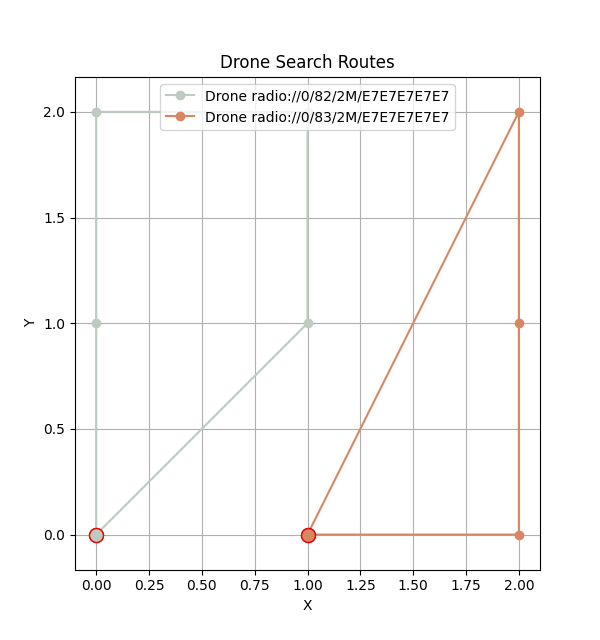
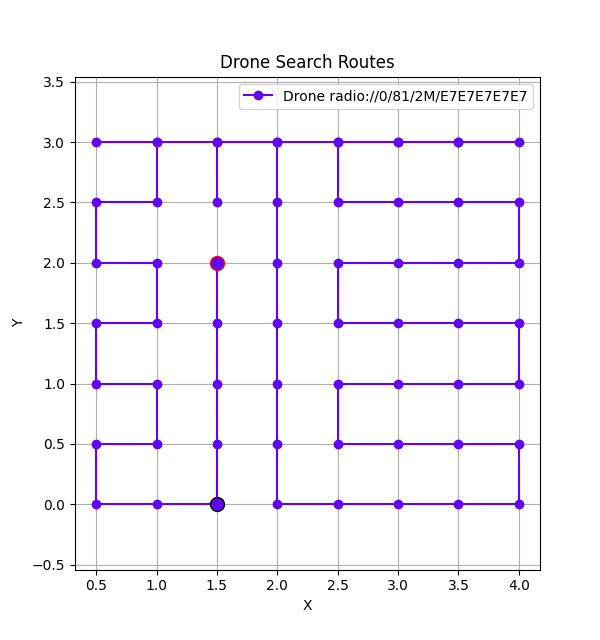
Finalise drone routing

diff --git a/src/services/swarm.py b/src/services/swarm.py
@@ -3,7 +3,7 @@ import cflib.crtp
 from cflib.crazyflie.swarm import CachedCfFactory
 from cflib.crazyflie.swarm import Swarm
 
-import queue, threading
+import queue, threading, time
 
 from services.navigation import NavigationService
 
@@ -26,9 +26,11 @@ class SwarmService():
         return self.state != SEARCH or self.state != RECALL
     
     def update_swarm(self, new_state: str):
+        print(new_state)
         if new_state == SCAN:
             self.swarm_thread = threading.Thread(target=self._run_swarm)
-        elif new_state == SEARCH or new_state == RECALL or new_state == EMERGENCY:
+            self.swarm_thread.start()
+        elif new_state in SWARM_COMMANDS:
             self.command_queue.put(new_state)
 
     def _run_swarm(self):
@@ -38,31 +40,39 @@ class SwarmService():
         self.uris = list(dict.fromkeys(self.uris))
 
         if self.uris:
-            self.state = CONNECTED
-            self._run_search()
-        else:
-            self.state = UNAVAILABLE
+            self._run_swarm_process()
+
+        self.state = DISCONNECT
     
-    def _run_search(self):
+    def _run_swarm_process(self):
         self.state = SCAN
 
         factory = CachedCfFactory(rw_cache='./cache')
         with Swarm(self.uris, factory=factory) as swarm:
+            self.state = CONNECTED
+            print("connected")
             while True:
                 try:
                     command = self.command_queue.get(timeout=0.1)
-                    self.state = command
                     if command == BUILD:
                         positions = swarm.get_estimated_positions()
+                        print("estimators reset")
                         self.navigation.set_drone_positions(positions)
                         self.navigation.build_routes()
                     elif command == SEARCH:
+                        swarm.parallel_safe(DroneCommand.light_check)
                         swarm.parallel_safe(DroneCommand.take_off)
+                        self.state = SEARCH
                     elif command == RECALL:
                         swarm.parallel_safe(DroneCommand.land)
+                        self.state = CONNECTED
                     elif command == EMERGENCY:
                         swarm.parallel_safe(DroneCommand.emergency)
                         break
+                    elif command == DISCONNECT:
+                        if self.state != SEARCH:
+                            self.state = DISCONNECT
+                            break
                 except queue.Empty:
                     pass
 
@@ -72,5 +82,7 @@ class SwarmService():
                         swarm.parallel_safe(DroneCommand.run_step, args_dict)
                     except Exception as e:
                         print(e)
+
+                time.sleep(0.001)
         
         self.state = DISCONNECT

diff --git a/src/assets/components.py b/src/assets/components.py
@@ -22,33 +22,28 @@ BUTTON_COLOR = COLORS["grey"]
 ACTIVE_TEXT_COLOR = COLORS["black"]
 INACTIVE_TEXT_COLOR = COLORS["darkgrey"]
 
-scan_button = CustomButton(10, 10, 150, 50, SCAN)
-disconnect_button = CustomButton(170, 10, 150, 50, DISCONNECT)
-search_button = CustomButton(330, 10, 150, 50, SEARCH)
-recall_button = CustomButton(490, 10, 150, 50, RECALL)
-emergency_button = CustomButton(650, 10, 150, 50, EMERGENCY)
+scan_button = CustomButton(1100, 40, 150, 50, SCAN)
+disconnect_button = CustomButton(1100, 100, 150, 50, DISCONNECT)
+build_button = CustomButton(1100, 160, 150, 50, BUILD)
+search_button = CustomButton(1100, 220, 150, 50, SEARCH)
+recall_button = CustomButton(1100, 280, 150, 50, RECALL)
+emergency_button = CustomButton(1100, 340, 150, 50, EMERGENCY)
 
 
 buttons = [
     scan_button,
+    disconnect_button,
+    build_button,
     search_button,
     recall_button,
-    disconnect_button,
     emergency_button
 ]
 
 button_state_mapping: dict[str,list[str]] = {
     DISCONNECT: [SCAN],
     SCAN: [],
-    UNAVAILABLE: [SCAN],
-    CONNECTED: [DISCONNECT, SEARCH],
+    CONNECTED: [DISCONNECT, SEARCH, BUILD],
     SEARCH: [RECALL, EMERGENCY],
     RECALL: [],
     EMERGENCY: [],
 }
-
-class DroneMap():
-    def __init__(self, width, height, colls, rows):
-        self
-
-    

diff --git a/src/main.py b/src/main.py
@@ -30,23 +30,23 @@ buttons: list[CustomButton] = buttons
 running = True
 
 class Render():
-    @classmethod
-    def _button(_, button: CustomButton):
+    @staticmethod
+    def _button(button: CustomButton):
         pygame.draw.rect(screen, BUTTON_COLOR, button)
         text_color = ACTIVE_TEXT_COLOR if button.active else INACTIVE_TEXT_COLOR
         text_surface = font.render(button.text, True, text_color)
         text_rect = text_surface.get_rect(center=button.center)
         screen.blit(text_surface, text_rect)
 
-    @classmethod
-    def _buttons(_):
+    @staticmethod
+    def _buttons():
         for i in range(len(buttons)):
             buttons[i].active = buttons[i].text in button_state_mapping[swarm.state]
             Render._button(buttons[i])
 
-    @classmethod
-    def _drones(_):
-        if swarm.navigation:
+    @staticmethod
+    def _drones():
+        if swarm.navigation and not swarm.state in MAP_HIDDEN_STATES:
             Plot._drone_routes(IMAGE_URI, (600, 640), swarm.navigation)
             screen.blit(pygame.image.load(IMAGE_URI).convert(), (40, 40))
         

diff --git a/src/utils/drone.py b/src/utils/drone.py
@@ -39,11 +39,16 @@ class DroneCommand:
         commander.stop()
 
     @staticmethod
-    def run_step(scf: SyncCrazyflie, move: tuple[float, float, float, float]):
-        x_p1, y_p1, delta_p1_p0, max_swarm_delta = move
-        duration = delta_p1_p0 / V_DRONE
+    def emergency(scf: SyncCrazyflie):
+        commander = scf.cf.high_level_commander
+        commander.stop()
+
+    @staticmethod
+    def run_step(scf: SyncCrazyflie, move: tuple[tuple[float, float], float, float]):
+        (x_pn, y_pn), delta_p, max_swarm_delta = move
+        duration = delta_p / V_DRONE
         wait_time = max_swarm_delta / V_DRONE
 
         commander = scf.cf.high_level_commander
-        commander.go_to(x_p1,y_p1,FLIGHT_HEIGHT,0,duration)
+        commander.go_to(x_pn,y_pn,FLIGHT_HEIGHT,0,duration)
         time.sleep(wait_time)

diff --git a/src/services/navigation.py b/src/services/navigation.py
@@ -2,6 +2,7 @@ import math
 import yaml
 import copy
 import random
+import copy
 
 import numpy as np
 from scipy.optimize import linear_sum_assignment
@@ -85,6 +86,7 @@ class NavigationService:
         self.drones_pn: Dict[str, Position2D] = {}
 
         self.routes: Dict[str, Route] = {}
+        self.full_routes: Dict[str, Route] = {}
 
     def set_drone_positions(self, positions: dict[str, SwarmPosition]):
         drones_p_none: Dict[str, Position2D] = {drone_id: (p.x, p.y) for drone_id, p in positions.items()}
@@ -229,6 +231,7 @@ class NavigationService:
             routes[drone_id] = route
 
         self.routes = routes
+        self.full_routes = copy.deepcopy(routes)
 
     def get_step(self) -> Dict[str, List[Tuple[Position2D, float, float]]]:
         self.drones_pc = copy.deepcopy(self.drones_pn)

diff --git a/src/utils/plot.py b/src/utils/plot.py
@@ -16,7 +16,7 @@ class Plot():
             xs = [p[0] for p in route]
             ys = [p[1] for p in route]
 
-            current = navigation.drone_locations[drone_id]
+            current = navigation.drones_pc[drone_id]
             start = route[0]
             color = navigation.color_dict[drone_id]
 

diff --git a/src/utils/state.py b/src/utils/state.py
@@ -5,8 +5,11 @@ RECALL = "recall"
 EMERGENCY = "emergency"
 
 CONNECTED = "connected"
-UNAVAILABLE = "unavailable"
 
 QUIT = "quit"
 
 DISCONNECT = "disconnect"
+
+MAP_HIDDEN_STATES = [DISCONNECT, SCAN]
+
+SWARM_COMMANDS = [BUILD, SEARCH, RECALL, EMERGENCY, DISCONNECT]
